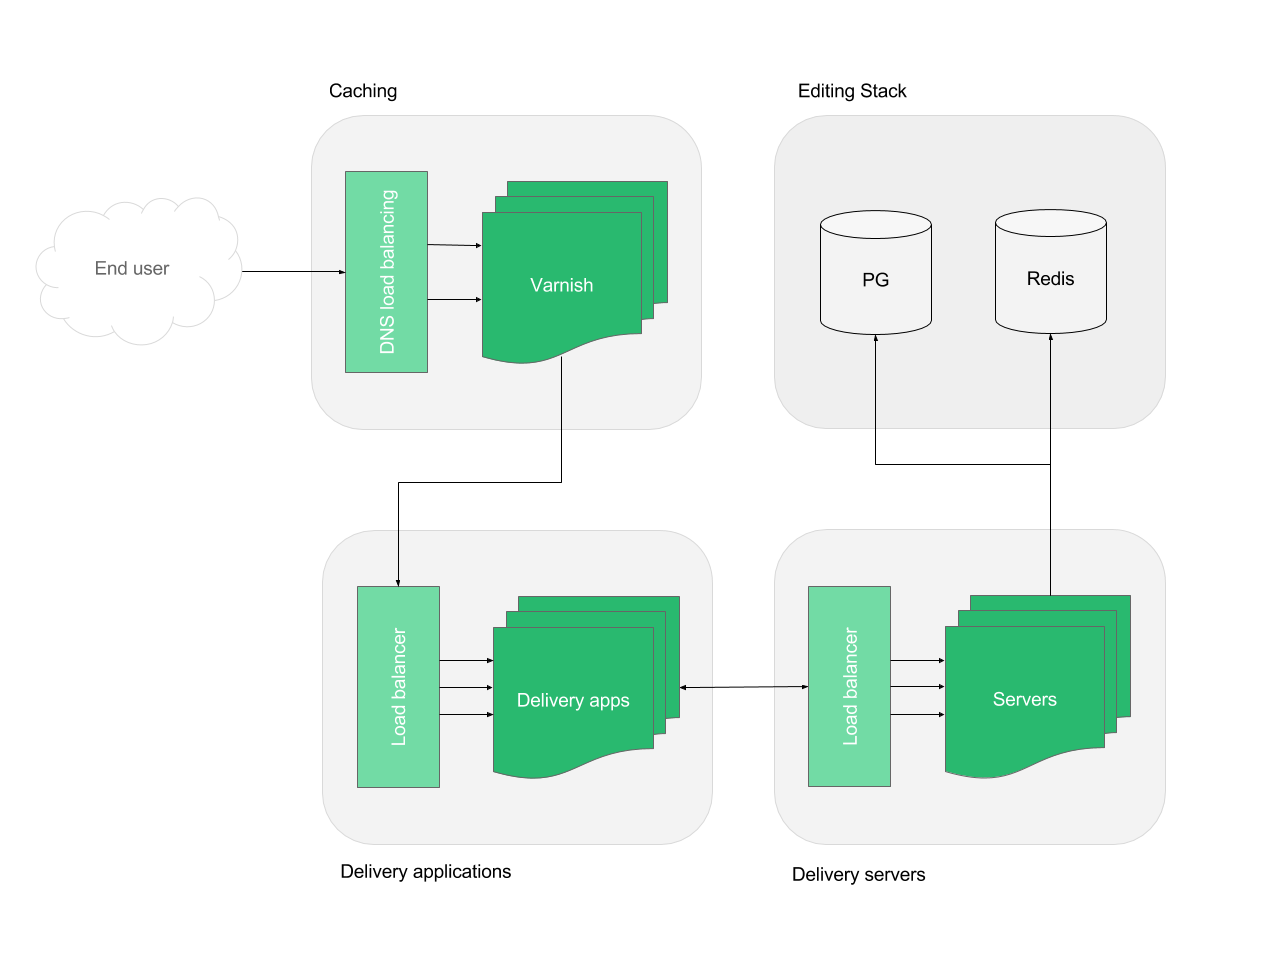
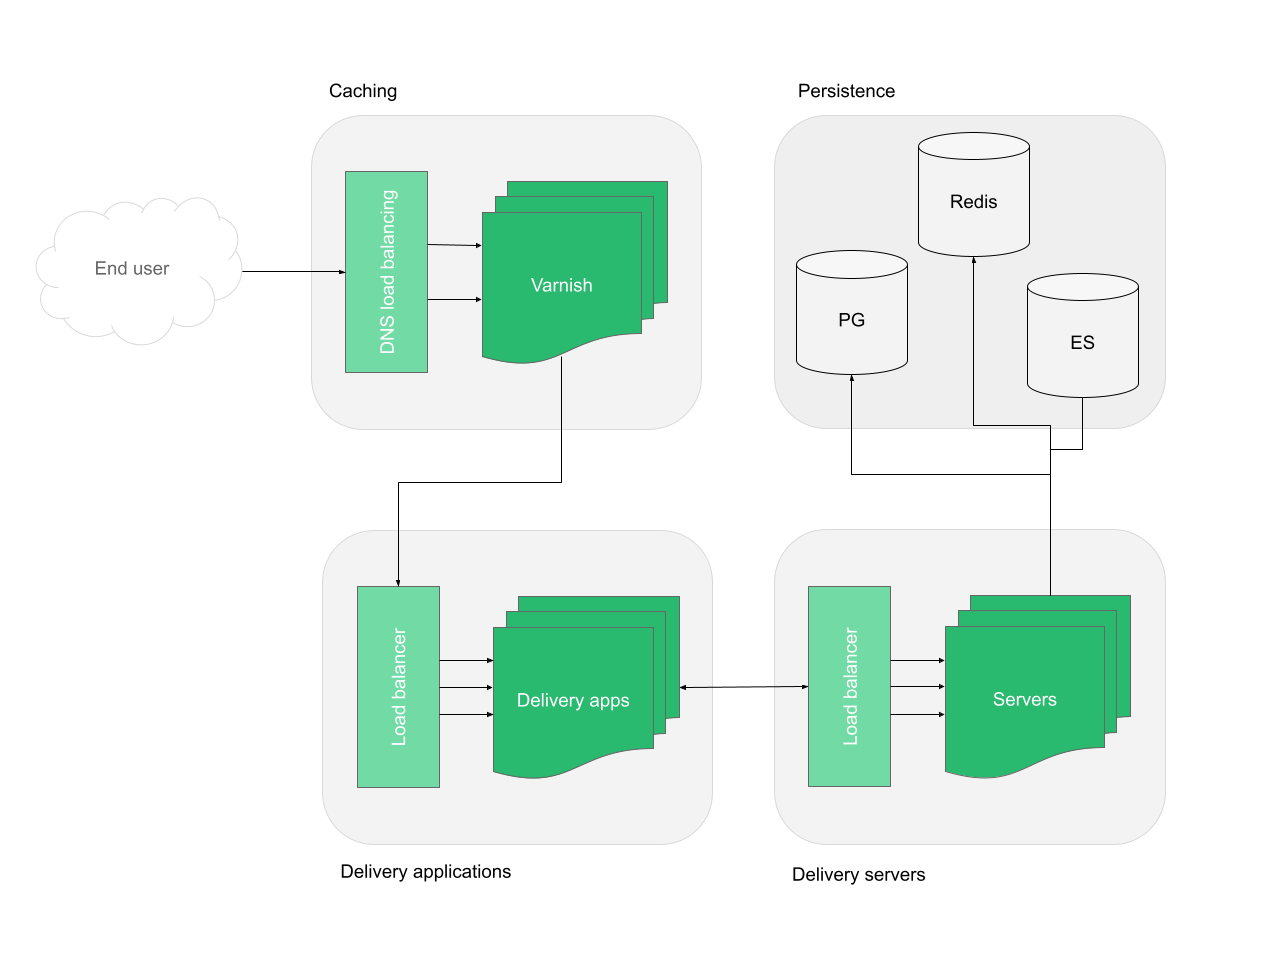
fix(operations): add elasticsearch to delivery stack graphic

diff --git a/content/enterprise/operations/high-availability-setup.md b/content/enterprise/operations/high-availability-setup.md
@@ -13,15 +13,17 @@ The editing stack is usually accessed by a limited number of editorial users. Fo
 
 - **Editor**: It is unlikely that it needs scaling as it serves static assets only. In case it needs to be redundant, you can always run two instances behind a load balancer.
 - **Editing servers**: Scaled based on the load generated by the editorial users. Because of the nature of node.js processes, it is recommended to always build in redundancy and run at least three processes, even in a simple production setup.
-- **Elasticsearch (ES)**: Scaled based on the number of objects in the database (mainly articles and pages) and read/write throughput. The load generated by the editorial users is unlikely a need to scale. Redundancy can be achieved through [configuring shards and replicas](https://www.elastic.co/guide/en/elasticsearch/guide/current/scale.html).
+- **Elasticsearch (ES)**: Scaled based on the number of objects in the database (mainly articles and pages) and read/write throughput. The load generated by the editorial users is usually very low and doesn't need special considerations. Redundancy can be achieved through [configuring shards and replicas](https://www.elastic.co/guide/en/elasticsearch/guide/current/scale.html).
 - **Postgres (PG)**: Scaled based on the number of objects in the database (mainly articles and pages) and read/write throughput. The load generated by the editorial users is unlikely a need to scale. Redundancy can be achieved through standby servers and failover.
 - **Redis**: Scaled based on the number of objects in the key value store (mainly routes for articles and pages and queue jobs) and read/write throughput. Redundancy can be achieved through [configuring replication](https://redis.io/topics/replication).
 
 ### Delivery stack
+
 {{< img src="images/architecture-delivery.png" >}}
 
 - **Caching**: The entry point is a Varnish cache server. Redundancy can be achieved through DNS load balancing.
 - **Delivery applications**: Should be scaled based on the load generated by the end users. Because of the nature of node.js processes, it is recommended to always build in redundancy and run at least three processes, even in a simple production setup.
 - **Delivery servers**: Should be scaled based on the load generated by the end users. Because of the nature of node.js processes, it is recommended to always build in redundancy and run at least three processes, even in a simple production setup.
-- **Postgres (PG)**: Scaled based on the load generated by the end users. In most cases, it can be a shared database with the editing stack. Separation of the two stacks can be achieved through running a read only slave database within the delivery stack, following the data from the read/write master in the editing stack. Redundancy can be achieved through standby servers and failover.
+- **Postgres (PG)**: Scaled based on the load generated by the end users. In most cases, it can be a shared database with the editing stack. Separation of the two stacks can be achieved through running a read only replica database within the delivery stack, following the data from the read/write lead database in the editing stack. Redundancy can be achieved through standby servers and failover.
+- **Elasticsearch (ES)**: Scaled based on the load generated by end users. In most cases, it can be a shared database with the editing stack. Separation of stacks can be achieved setting up a custom index for publications. Redundancy can be achieved through [configuring shards and replicas](https://www.elastic.co/guide/en/elasticsearch/guide/current/scale.html).
 - **Redis**: Scaled based on the read/write load. In most cases, it can be a shared database with the editing stack. Redundancy can be achieved through [configuring replication](https://redis.io/topics/replication).
